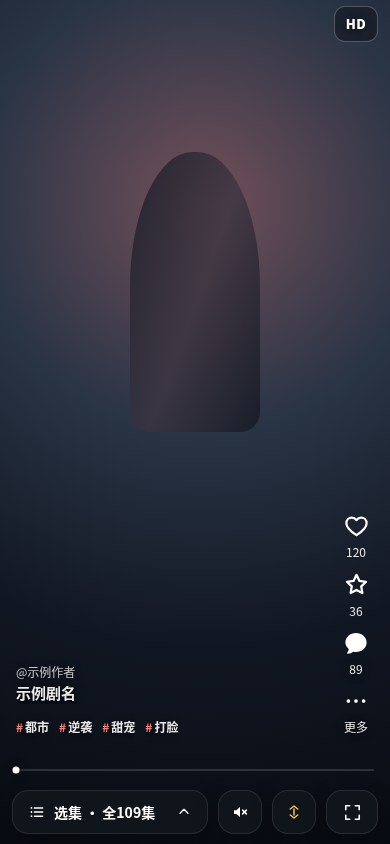
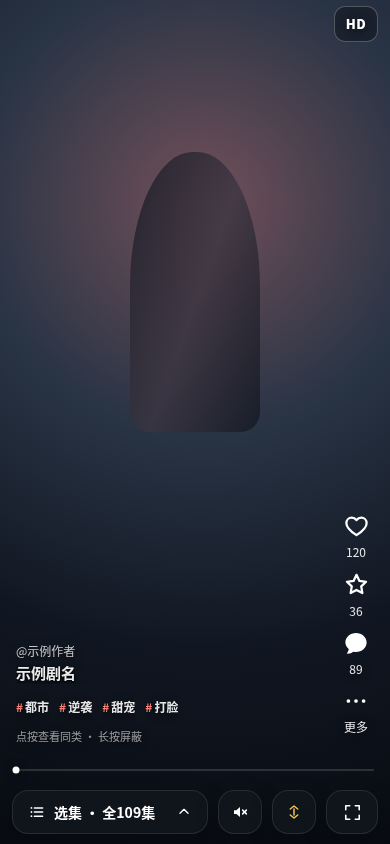
style: keep the tag interaction hint

Changed region(s): [[0.0308, 0.7393, 0.4615, 0.8934]]

diff --git a/src/styles/video-details.css b/src/styles/video-details.css
@@ -29,6 +29,7 @@
 .current-video-tags::-webkit-scrollbar { display:none; }
 .current-video-tag.ios-button { display:inline-flex; flex:none; align-items:center; gap:2px; min-height:34px !important; min-width:0 !important; max-width:160px; padding:4px 0; border:0; border-radius:0; background:transparent; box-shadow:none; color:rgb(255 255 255 / .9); font-size:12px; font-weight:600; line-height:1.3; white-space:nowrap; overflow:hidden; text-overflow:ellipsis; text-shadow:0 2px 8px rgb(0 0 0 / .7); backdrop-filter:none; }
 .current-video-tag>span { color:var(--p-accent,#a8c7fa); }
+.current-video-tags-hint { display:block; margin-top:4px; color:rgb(255 255 255 / .58); font-size:11px; white-space:nowrap; text-shadow:0 2px 8px rgb(0 0 0 / .65); }
 .mobile-video-action-rail { --mobile-action-rail-clearance:108px; }
 .mobile-video-action-rail>.ios-button { min-width:48px; min-height:48px; }
 .mobile-playback-dock { display:flex; align-items:center; gap:10px; margin:12px calc(var(--sar,0px) + 12px) 0 calc(var(--sal,0px) + 12px); pointer-events:auto; }

diff --git a/src/features/feed/FeedItemChrome.tsx b/src/features/feed/FeedItemChrome.tsx
@@ -280,6 +280,7 @@ export default function FeedItemChrome({
                 {!!meta.author && <div className="mobile-video-author">@{meta.author}</div>}
                 <p className="text-[15px] font-semibold leading-snug hg-ink-2 hg-ov-shadow-strong clamp-2">{meta.title}</p>
                 <CurrentVideoTags tags={meta.tags} onOpen={openTag} onBlock={tag => openTagMenu([tag])} />
+                {meta.tags.length > 0 && <div className="current-video-tags-hint">点按查看同类 · 长按屏蔽</div>}
               </div>
             </div>
           )}
